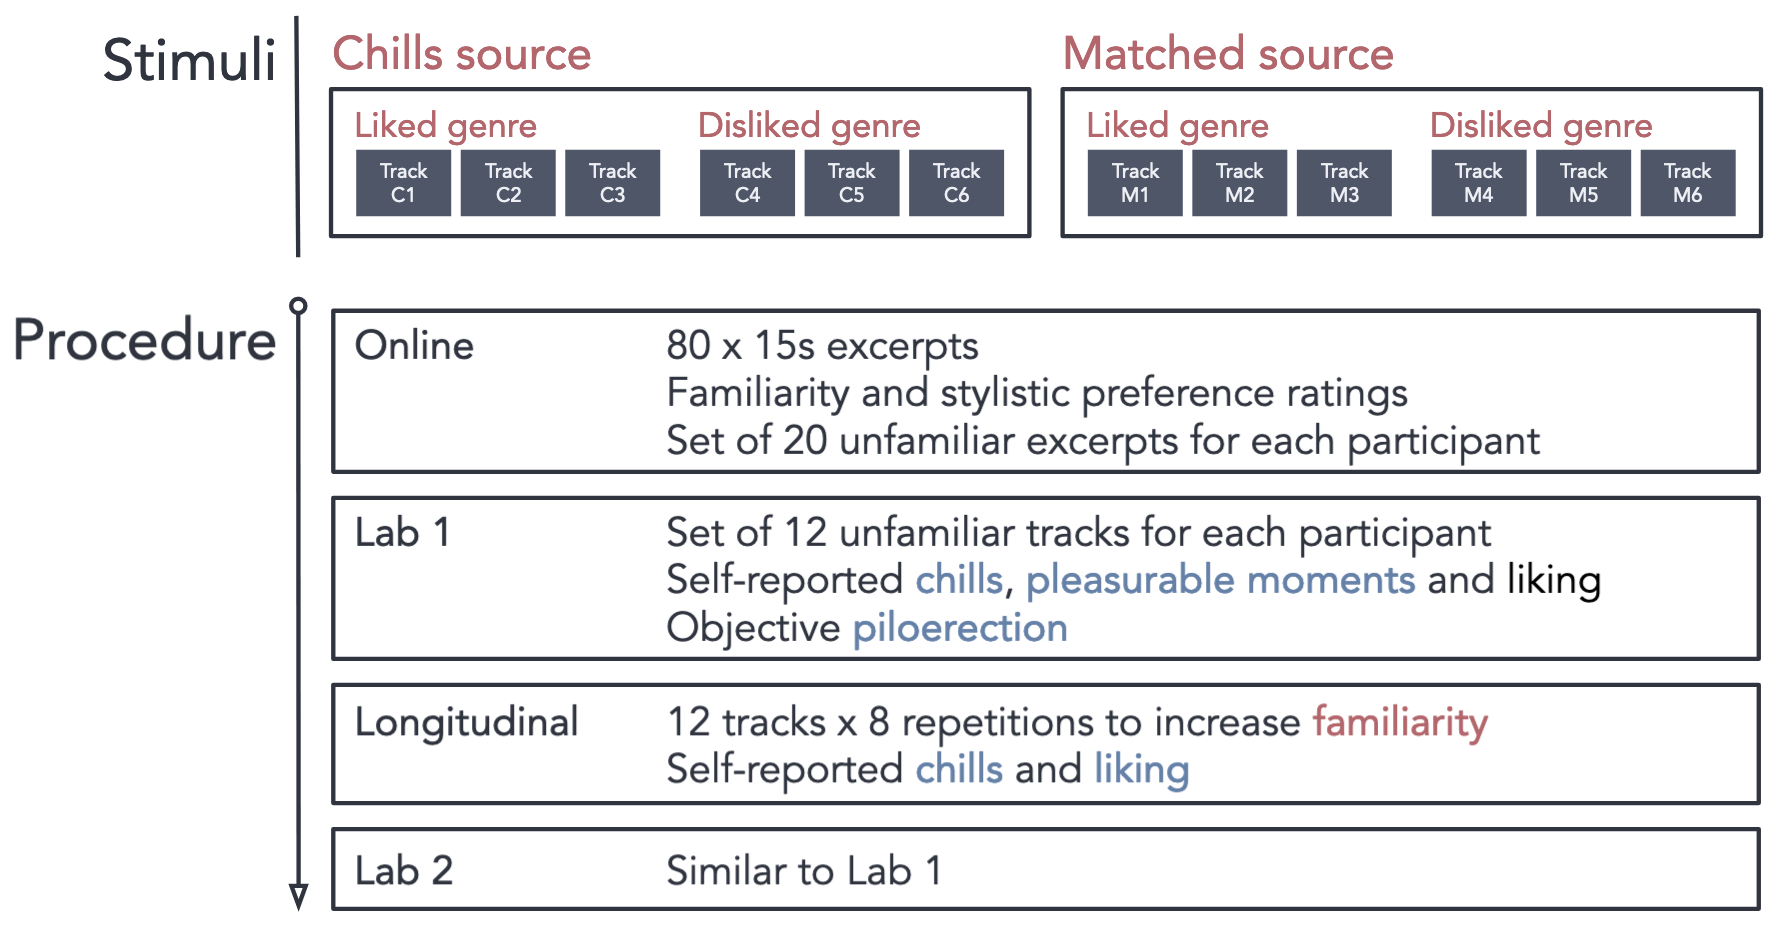
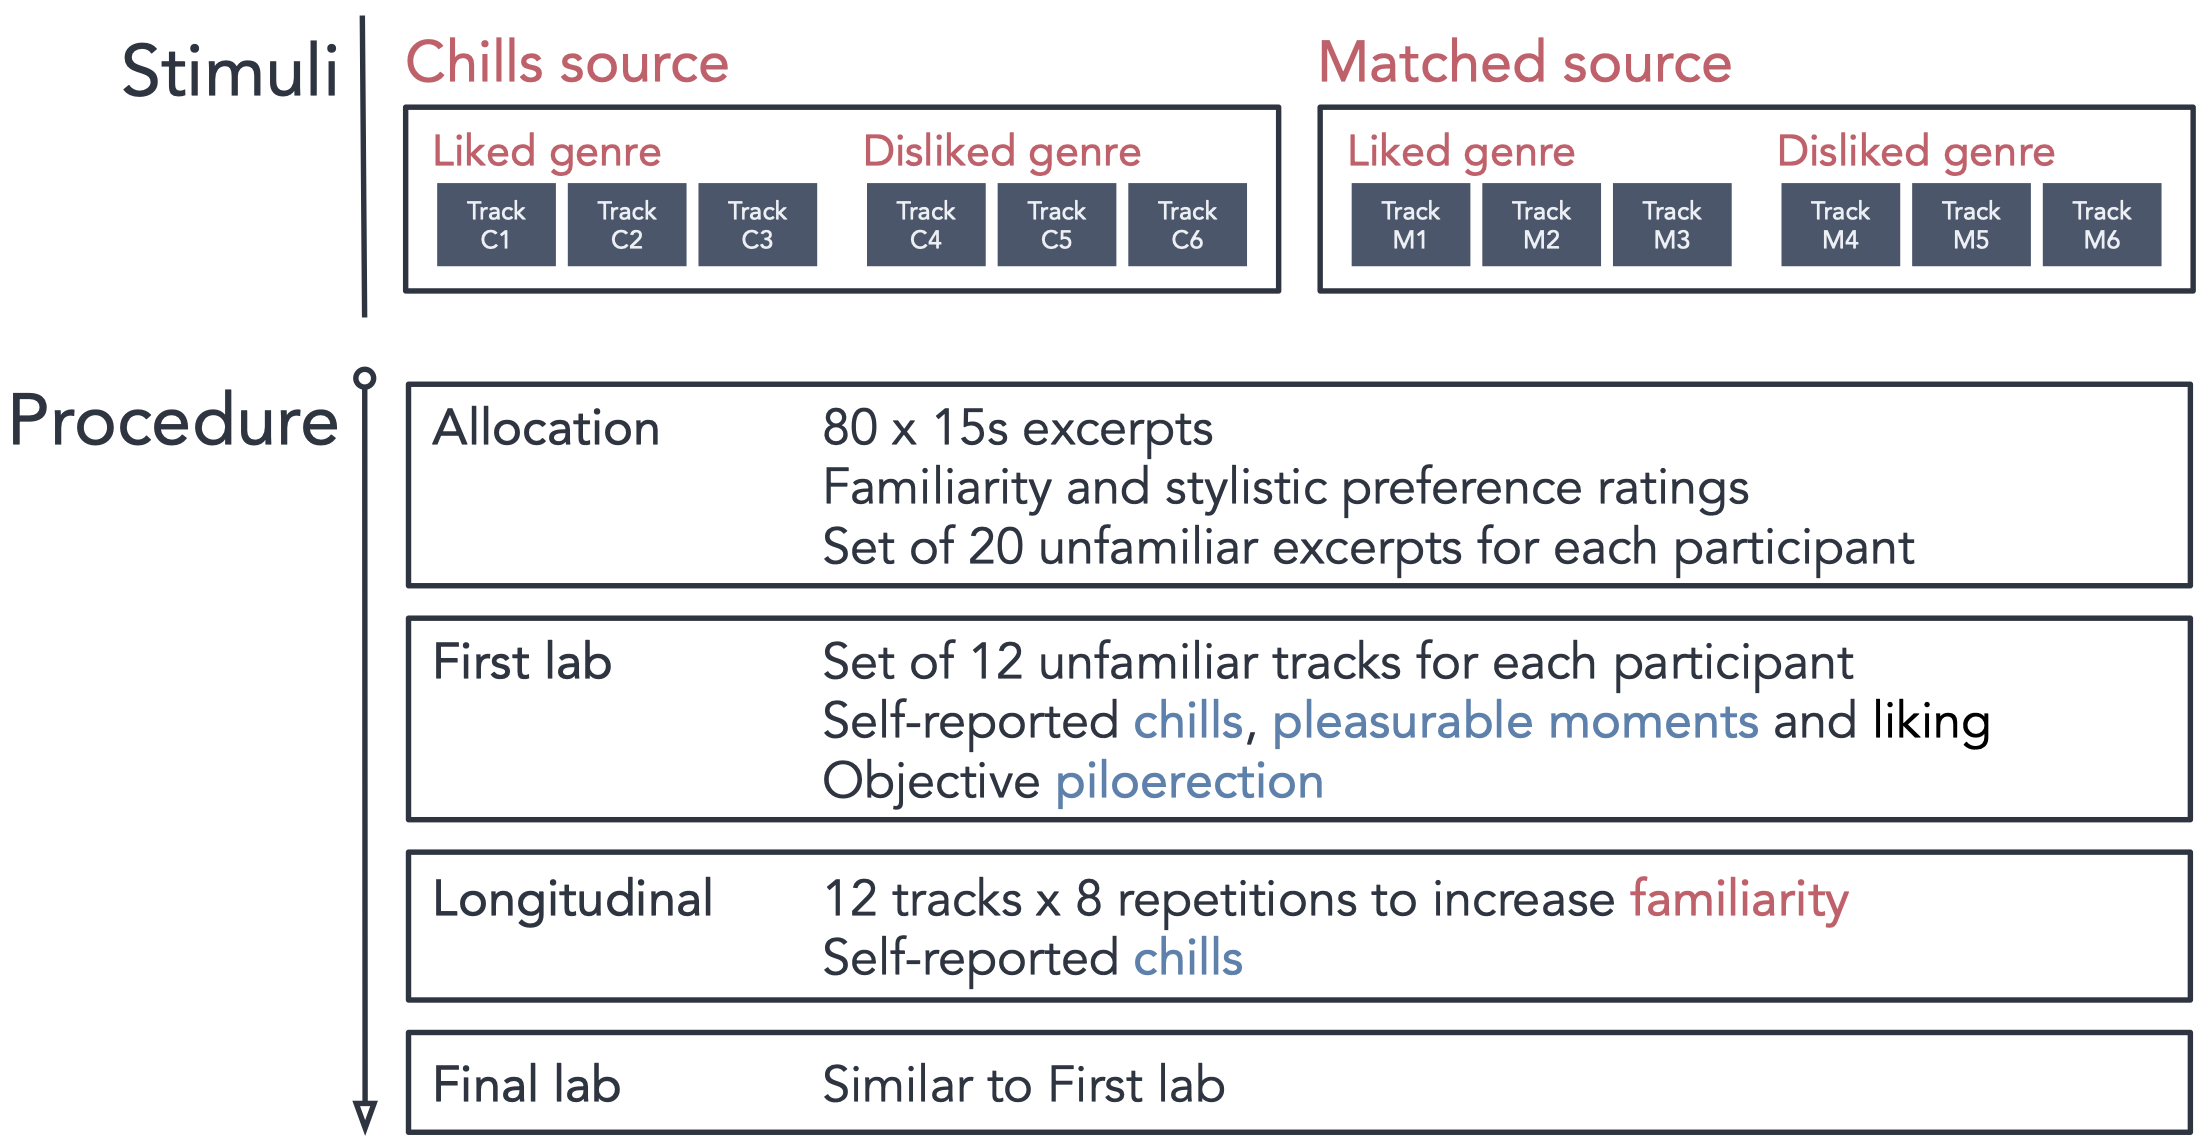
Address 3.3

diff --git a/files/10-content.tex b/files/10-content.tex
@@ -125,9 +125,11 @@ The final lab session was essentially similar to the first session, with the exc
 
 Participants who completed both the stimulus selection task and the first lab session were entered into a draw for a \pounds150 Amazon voucher. In addition, participants who completed the full study were offered \pounds20 for their time. It is worth noting that the sample sizes for the different parts of the present study were fairly small, which is due to the time-consuming nature of the experiment and the monetary constraints for participant compensation. We would note, however, that these sample sizes are consistent with similar previous research on piloerection or longitudinal effects \parencite[e.g.,][]{bannister2018,madison2017,wassiliwizky2017a}.
 
-A graphical representation of the experimental design is shown in \autoref{fig:con-5}. The full experiment was tested on three volunteers. This resulted in the identification and correction of small software bugs for some edge cases, and more importantly, in switching from using a single Goosecam baseline for the whole experiment to recording a baseline before each track. This change resulted in more consistent measurements, and had the added advantage of allowing participants to take a break during the experiment without disrupting the calibration of the Goosecam.
+A summary of all the data collection steps is shown in \autoref{tab:con-1} and a graphical representation of the experimental design is shown in \autoref{fig:con-5}. The full experiment was tested on three volunteers. This resulted in the identification and correction of small software bugs for some edge cases, and more importantly, in switching from using a single Goosecam baseline for the whole experiment to recording a baseline before each track. This change resulted in more consistent measurements, and had the added advantage of allowing participants to take a break during the experiment without disrupting the calibration of the Goosecam.
 
-\begin{figure}[t!]
+\input{tables/con-1}
+
+\begin{figure}[b!]
 \includegraphics[width=\textwidth]{con-5.png}
 \centering
 \caption{Simplified summary of the experimental design. The main independent variables are shown in red, and the main dependent variables are shown in blue.}

diff --git a/tables/con-1.tex b/tables/con-1.tex
@@ -1,0 +1,58 @@
+\begin{table}[t!]
+\centering
+\scriptsize
+\def\arraystretch{1.2}
+
+\begin{threeparttable}
+\caption{Summary of data collection steps}
+\label{tab:con-1}
+
+\begin{tabular*}{\textwidth}{
+    >{\raggedright}p{0.22\textwidth}
+    >{\raggedright}p{0.17\textwidth}
+    >{\raggedright}p{0.16\textwidth}
+    >{\raggedright\arraybackslash}p{0.345\textwidth}}
+
+\hline
+
+\textbf{Step} & \textbf{Data collection} & \textbf{Participants} & \textbf{Objective} \\ 
+
+\hline
+1. Online survey* & 
+    Feb 2018 – \newline May 2018 &
+    221 online (Qualtrics) & 
+    Compile a list of tracks which \newline elicit MECs \\
+
+\hline
+2. Stimulus allocation & 
+    Nov 2018 – \newline  Jun 2019 &
+    33 online (psychTestR) & 
+    Select unfamiliar tracks from \newline \emph{Step 1} for each participant \\
+
+\hline
+3. First lab session & 
+    A few days \newline after \emph{Step 2} &
+    30 in-person from \emph{Step 2} & 
+    Collect continuous data as par- \newline ticipants listened to full tracks \\
+
+\hline
+4. Longitudinal phase & 
+    Immediately after \emph{Step 3} &
+    13 from \emph{Step 3} & 
+    Increase familiarity with \newline previously unfamiliar tracks \\
+
+\hline
+5. Final lab session & 
+    Two weeks \newline after \emph{Step 3} &
+    Same as \emph{Step 4} & 
+    Assess the effect of familiarity \newline on MECs \\
+    
+\hline
+
+\end{tabular*}
+\begin{tablenotes}
+\small
+\item Note. * The online survey was left running after May 2018 to build a dataset for the computational study detailed in Chapter \ref{ch:5}.
+\end{tablenotes}
+\end{threeparttable}
+\end{table}
